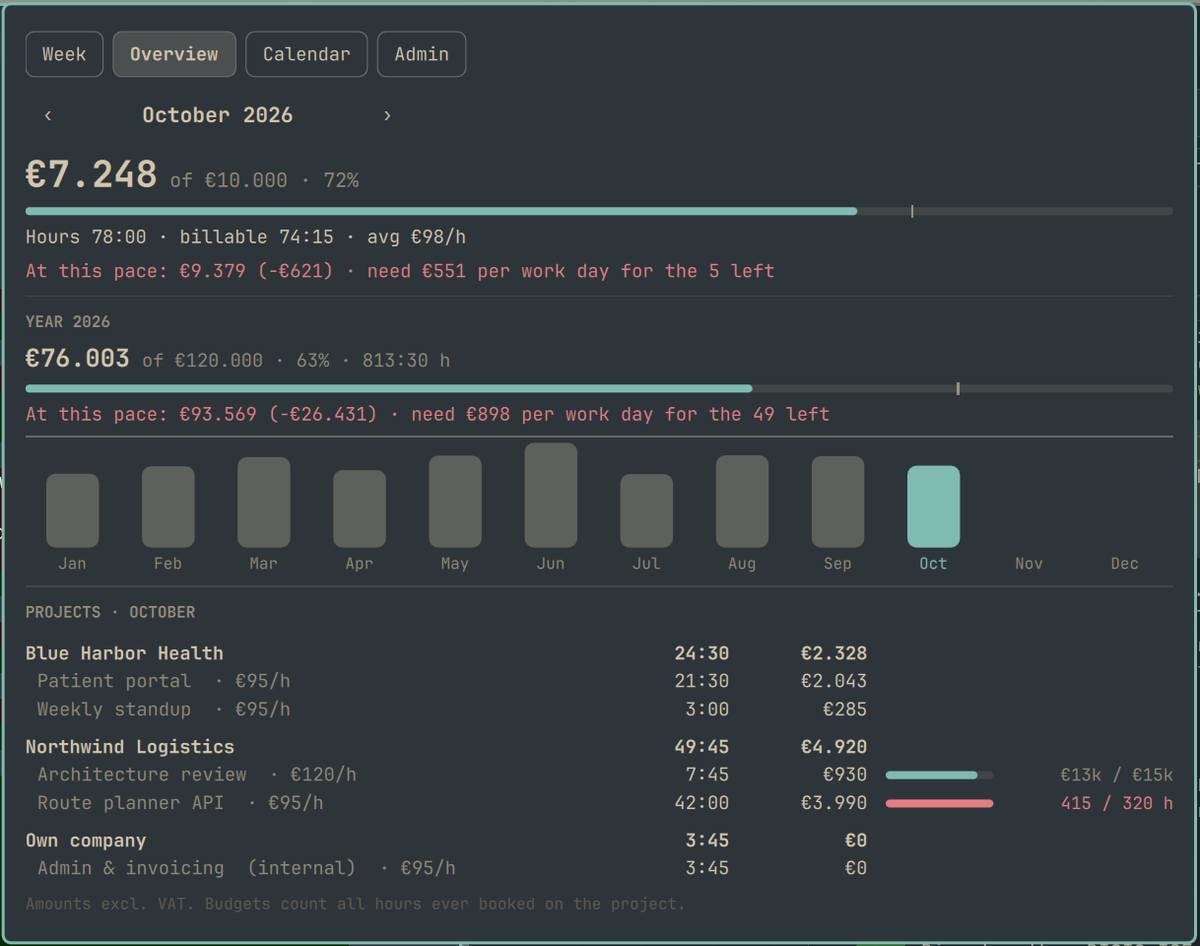
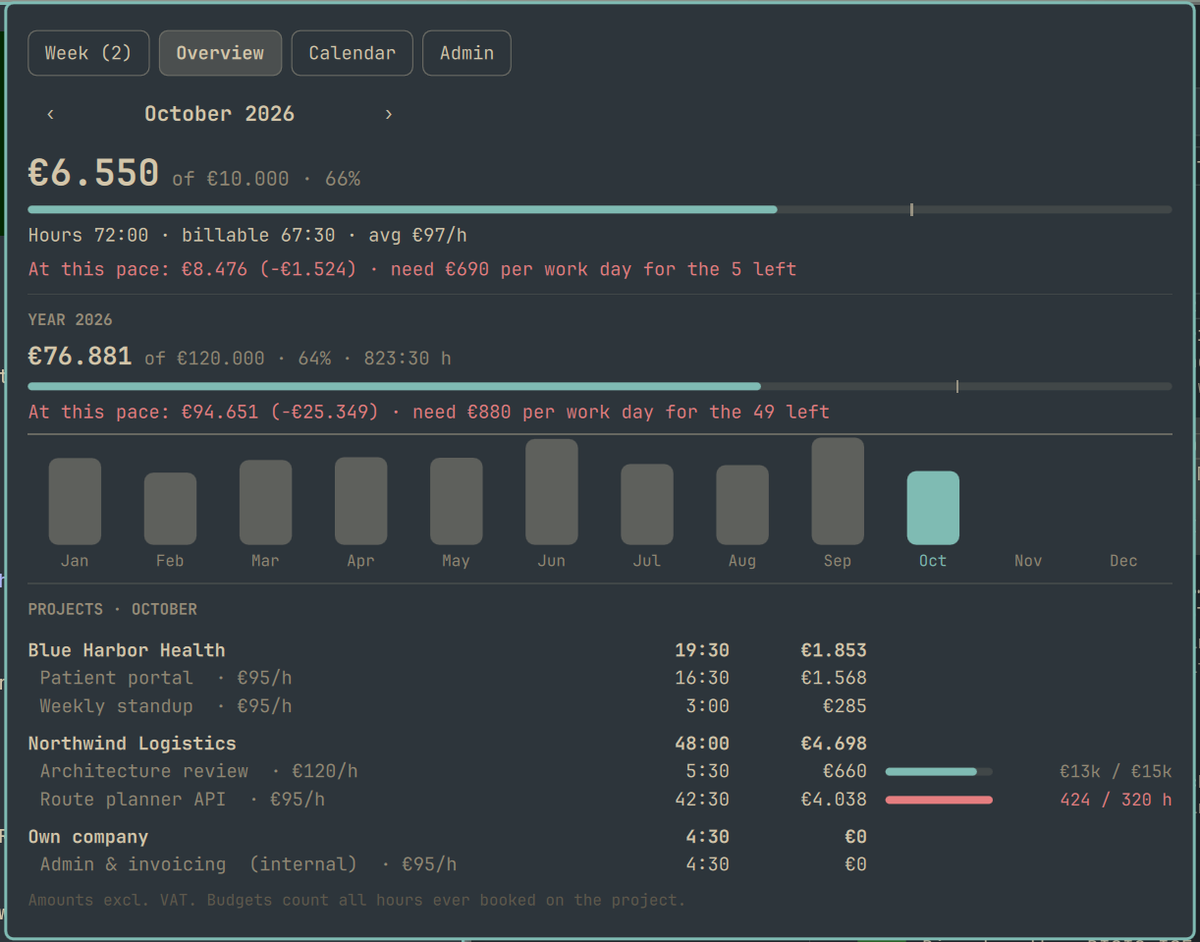
Add demo data and a script to retake the screenshots
demo/make-demo.js writes fictional customers, hours and a fake calendar;
demo/screenshots.sh swaps them in, captures every tab, crops the panel and
restores the real data file.

Assisted by AI

diff --git a/demo/make-demo.js b/demo/make-demo.js
@@ -1,0 +1,78 @@
+// Writes fictional data for screenshots: demo/out/hours.json and a fake
+// Datebook cache at demo/out/events.json, dated around today so the week,
+// month and pace all look current. Deterministic for a given day.
+//   node demo/make-demo.js [YYYY-MM-DD]
+const fs = require("fs");
+const path = require("path");
+const Model = require("../Model.js");
+
+const today = process.argv[2] || Model.dateKey(new Date());
+const out = path.join(__dirname, "out");
+fs.mkdirSync(out, { recursive: true });
+
+const d = Model.defaults();
+d.rates = [{ id: "r1", name: "Development", amount: 95 }, { id: "r2", name: "Architecture", amount: 120 }];
+d.customers = [
+  { id: "c1", name: "Northwind Logistics", archived: false },
+  { id: "c2", name: "Blue Harbor Health", archived: false },
+  { id: "c3", name: "Own company", archived: false },
+];
+const P = (id, c, name, rate, extra) => Object.assign(
+  { id, customerId: c, name, rateId: rate, billable: true, budgetType: "none", budget: 0, archived: false }, extra || {});
+d.projects = [
+  P("p1", "c1", "Route planner API", "r1", { budgetType: "hours", budget: 320 }),
+  P("p2", "c1", "Architecture review", "r2", { budgetType: "money", budget: 15000 }),
+  P("p3", "c2", "Patient portal", "r1"),
+  P("p4", "c2", "Weekly standup", "r1"),
+  P("p5", "c3", "Admin & invoicing", "r1", { billable: false }),
+];
+d.targets = { month: 10000, year: 120000 };
+d.settings.calendarCache = "~/.cache/on-the-clock-demo/events.json";
+
+// Hours on most work days since the start of the year.
+let seed = 7;
+const rnd = () => (seed = (seed * 16807) % 2147483647) / 2147483647;
+const q = (lo, hi) => Math.round((lo + rnd() * (hi - lo)) * 4) * 15;
+for (let k = today.slice(0, 4) + "-01-01"; k < today; k = Model.addDays(k, 1)) {
+  const dow = Model.parseKey(k).getDay();
+  if (dow === 0 || dow === 6 || rnd() < 0.08) continue;
+  const day = {};
+  if (rnd() < 0.7) day.p1 = q(1.5, 4.5);
+  if (rnd() < 0.3) day.p2 = q(1, 3);
+  if (rnd() < 0.55) day.p3 = q(1, 3.5);
+  if (dow === 2) day.p4 = 60;
+  if (rnd() < 0.4) day.p5 = q(0.25, 1);
+  d.entries[k] = day;
+}
+
+// Recurring meetings from eight weeks back to five weeks ahead.
+const series = [
+  { id: "demo-standup", title: "Blue Harbor · weekly standup", dow: 2, h: 9, m: 30, len: 30, every: 1 },
+  { id: "demo-review", title: "Northwind sprint review", dow: 4, h: 14, m: 0, len: 60, every: 2 },
+  { id: "demo-arch", title: "Architecture board", dow: 1, h: 11, m: 0, len: 90, every: 2 },
+  { id: "demo-lunch", title: "Team lunch", dow: 5, h: 12, m: 0, len: 60, every: 1 },
+];
+const first = Model.addDays(Model.weekStart(today), -56);
+const events = [];
+for (const s of series) {
+  for (let w = 0; w < 13; w += s.every) {
+    const k = Model.addDays(first, w * 7 + (s.dow + 6) % 7);
+    const start = Model.parseKey(k);
+    start.setHours(s.h, s.m, 0, 0);
+    events.push({
+      uid: s.id + "_" + k, title: s.title, allDay: false, recurring: true, seriesId: s.id,
+      start: start.toISOString(), end: new Date(start.getTime() + s.len * 60000).toISOString(),
+      status: "confirmed", response: "accepted",
+    });
+  }
+}
+d.calendar.links = { "demo-standup": "p4", "demo-review": "p2" };
+
+// Leave the two most recent meetings waiting for a decision.
+const now = Model.parseKey(today).getTime() + 14 * 3600000;
+const open = Model.suggestions(d, events, now);
+for (const s of open.slice(0, -2)) d.calendar.decided[s.uid] = "confirmed";
+
+fs.writeFileSync(path.join(out, "hours.json"), JSON.stringify(d, null, 2) + "\n");
+fs.writeFileSync(path.join(out, "events.json"), JSON.stringify({ events }, null, 1) + "\n");
+console.log("demo data for " + today + " in " + out);

diff --git a/demo/find-panel.js b/demo/find-panel.js
@@ -1,0 +1,68 @@
+// Prints the crop geometry (WxH+X+Y) of the open panel in a screenshot,
+// given as a binary PPM on stdin. The panel is the rectangle whose left and
+// right borders are long vertical runs of the same colour, with matching
+// tops and bottoms and a bottom border between them, starting just under
+// the bar.
+//   magick shot.png ppm:- | node demo/find-panel.js
+const buf = require("fs").readFileSync(0);
+
+let pos = 0;
+function token() {
+  while (/\s/.test(String.fromCharCode(buf[pos]))) pos++;
+  const start = pos;
+  while (!/\s/.test(String.fromCharCode(buf[pos]))) pos++;
+  return buf.toString("ascii", start, pos);
+}
+if (token() !== "P6") throw new Error("expected a binary PPM");
+const W = Number(token()), H = Number(token()), max = Number(token());
+if (max !== 255) throw new Error("expected 8-bit PPM");
+const data = buf.subarray(pos + 1);
+const px = (x, y) => { const i = (y * W + x) * 3; return (data[i] << 16) | (data[i + 1] << 8) | data[i + 2]; };
+
+// Vertical runs of one colour at least MIN tall.
+const MIN = 200;
+const runs = [];
+for (let x = 0; x < W; x++) {
+  let start = 0;
+  for (let y = 1; y <= H; y++) {
+    if (y < H && px(x, y) === px(x, start)) continue;
+    if (y - start >= MIN) runs.push({ x, top: start, bottom: y - 1, color: px(x, start) });
+    start = y;
+  }
+}
+
+// Pair runs into left/right borders: same colour, same top and bottom, and a
+// bottom border of that colour between them.
+let best = null;
+const byKey = new Map();
+for (const r of runs) {
+  const k = r.color + ":" + r.top + ":" + r.bottom;
+  if (!byKey.has(k)) byKey.set(k, []);
+  byKey.get(k).push(r);
+}
+for (const list of byKey.values()) {
+  if (list.length < 2) continue;
+  const left = list[0], right = list[list.length - 1];
+  const width = right.x - left.x;
+  // Panels drop down from the bar, so they start near the top of the screen.
+  if (width < 300 || left.top > H * 0.08) continue;
+  // Borders are thin lines, not the edges of a filled block.
+  const mid = (left.top + left.bottom) >> 1;
+  if (px(left.x + 4, mid) === left.color || px(right.x - 4, mid) === left.color) continue;
+  // The bottom border sits a little above the column ends because of the
+  // rounded corners; look for it in the middle.
+  const cx = (left.x + right.x) >> 1;
+  let joined = false;
+  for (let y = left.bottom - 10; y <= left.bottom + 10 && !joined; y++)
+    joined = y >= 0 && y < H && px(cx, y) === left.color && px(cx - 100, y) === left.color;
+  if (!joined) continue;
+  const area = width * (left.bottom - left.top);
+  if (!best || area > best.area) best = { left, right, area };
+}
+if (!best) { console.error("no panel found"); process.exit(1); }
+
+// Rounded corners put the outermost border columns in other runs.
+const pad = 6;
+const x = Math.max(0, best.left.x - pad), y = Math.max(0, best.left.top - pad);
+const w = Math.min(W, best.right.x + pad + 1) - x, h = Math.min(H, best.left.bottom + pad + 1) - y;
+console.log(w + "x" + h + "+" + x + "+" + y);
